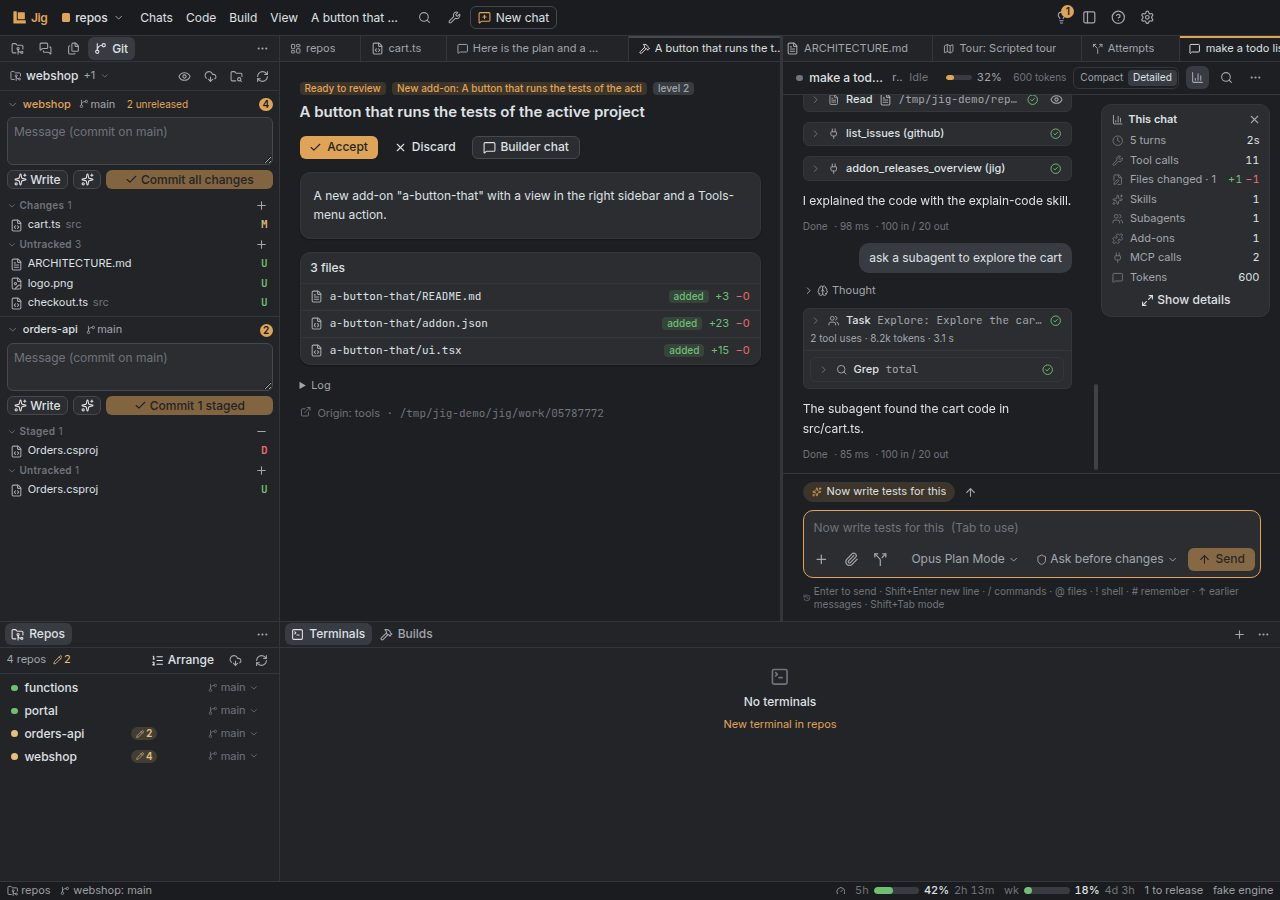
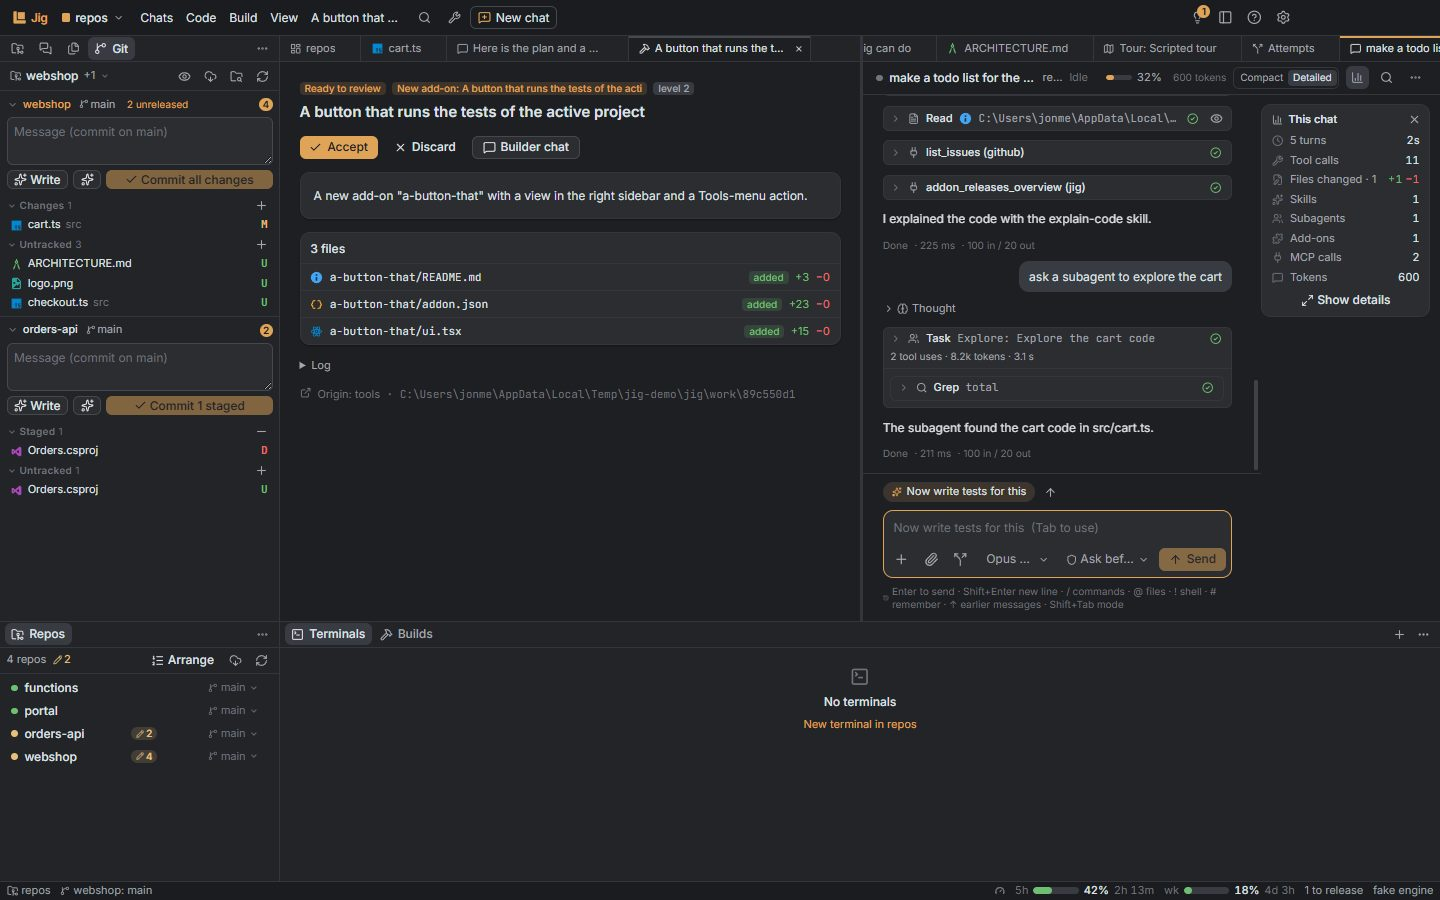
Docs: refresh aligned chat screenshots and fix preview selection

diff --git a/e2e/screenshots.spec.ts b/e2e/screenshots.spec.ts
@@ -424,7 +424,7 @@ main{padding:20px}.card{background:#fff;border-radius:12px;padding:16px;margin-b
   await page.waitForTimeout(800);
   await shot("files");
 
-  await page.getByTestId("main-pane-right").getByTestId("tab-jig.preview").click({ button: "right" });
+  await page.getByTestId("main-pane-right").getByTestId("tab-jig.preview").last().click({ button: "right" });
   await page.getByRole("menuitem", { name: "One pane" }).click();
 
   // Releases: the webshop's unreleased work, drafted with Claude.

diff --git a/README.md b/README.md
@@ -18,7 +18,7 @@
 </p>
 
 <p align="center">
-  <img src="apps/desktop/src/renderer/features/about/shots/chat.jpg?v=13" alt="A chat with Claude Code next to the Git view of a workspace with four repositories" width="900">
+  <img src="apps/desktop/src/renderer/features/about/shots/chat.jpg?v=14" alt="A chat with Claude Code next to the Git view of a workspace with four repositories" width="900">
 </p>
 
 > In woodworking, a **jig** is a custom tool you make yourself so a repetitive job gets faster and
@@ -82,7 +82,7 @@ for pipelines and a few scripts you keep retyping. Jig puts it in one place:
 <table>
   <tr>
     <td colspan="2" valign="top">
-      <img src="apps/desktop/src/renderer/features/about/shots/chat-tools.jpg?v=13" alt="A chat with Claude's todo list, an edit with its diff and a plan to approve">
+      <img src="apps/desktop/src/renderer/features/about/shots/chat-tools.jpg?v=14" alt="A chat with Claude's todo list, an edit with its diff and a plan to approve">
       <b>Claude Code, in a window.</b> Everything its terminal shows, as cards:
       <ul>
         <li>Claude's todo list as a checklist, and plans you approve or send back with feedback.</li>

diff --git a/docs/status.md b/docs/status.md
@@ -9,6 +9,7 @@ is hidden or first appears, visible command pickers, queued messages, streaming 
 Narrow-pane follow-up: model and permission labels truncate within their buttons so the Send button
 stays inside the composer; full labels remain available in tooltips. Alignment/overflow coverage also
 includes an 800-pixel window. The screenshot generator selects the last preview tab when several exist.
+The screenshot suite passes; chat, overview, details and related chat screenshots were refreshed.
 
 Task entry (2026-10-31): Add tasks uses compact single-line prompt rows with inline filename chips.
 The attachment area reserves its width and scrolls horizontally; files never grow a row or move its
